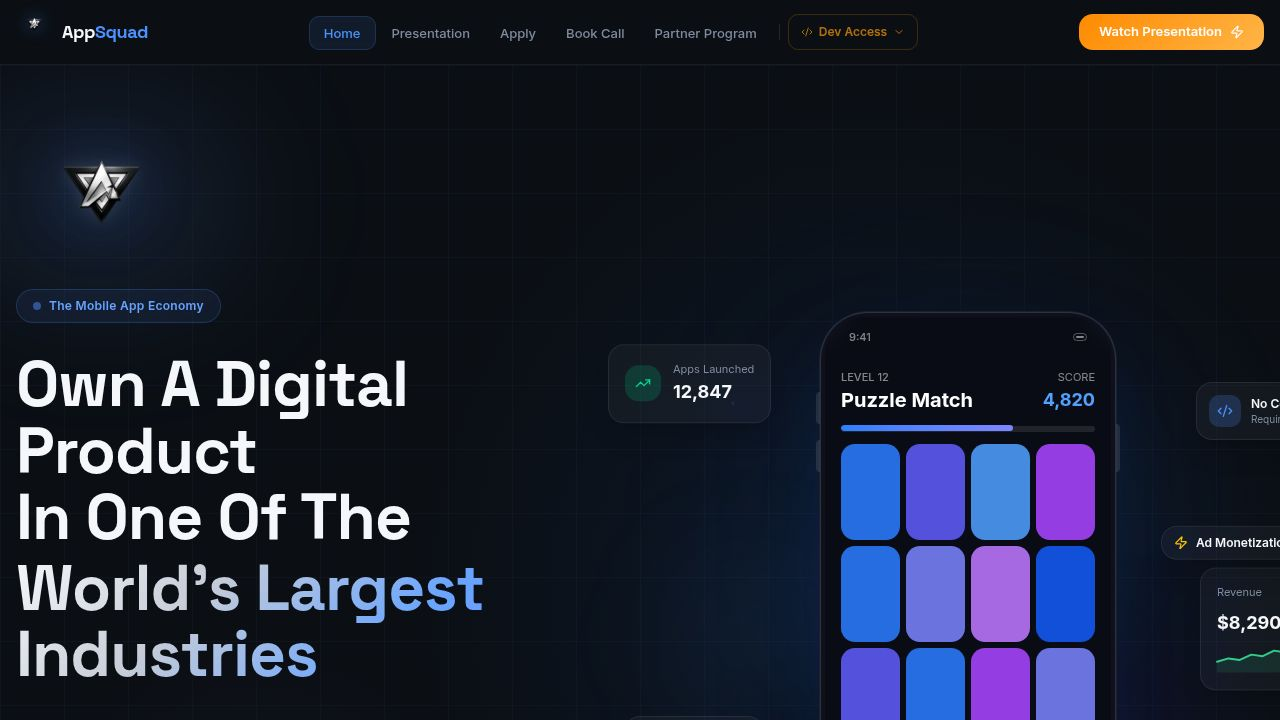
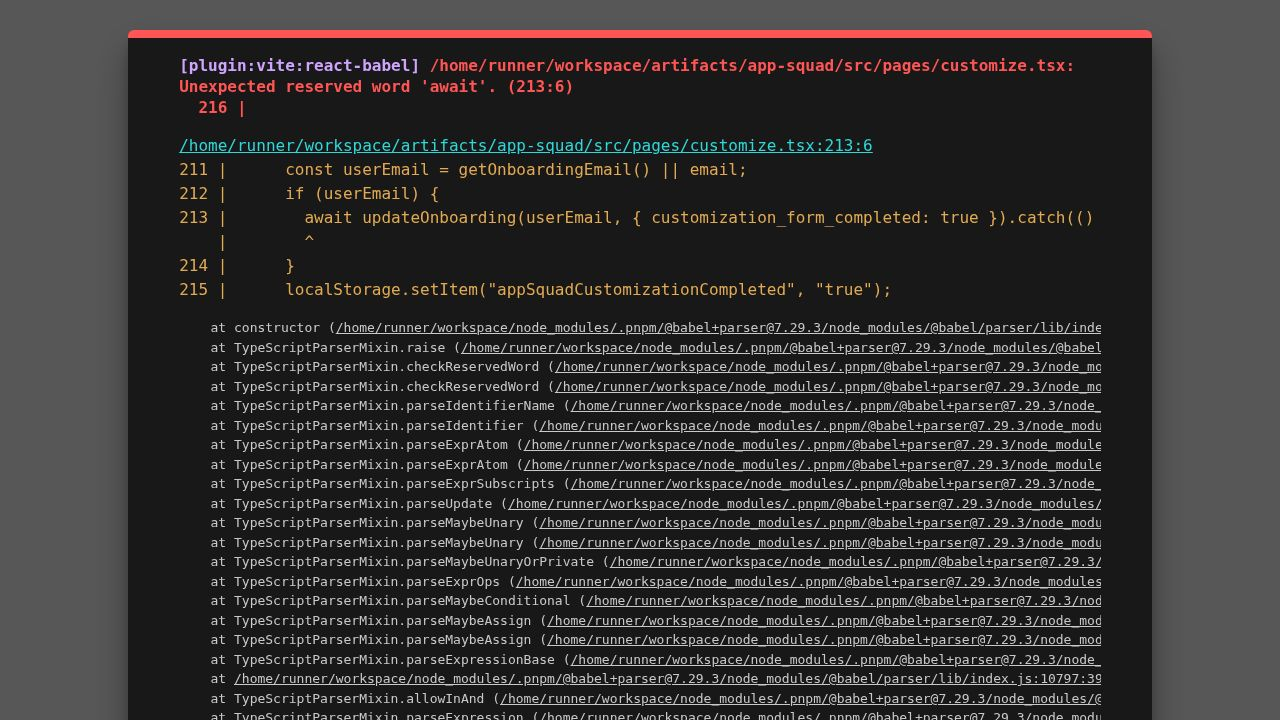
Update onboarding flow to use new email retrieval and async handlers
Refactors `customize.tsx` and `game-selection.tsx` to use `getOnboardingEmail` and make handlers async. Updates `staff-login.tsx` with prefill email logic, admin bypass, and improved error handling. Also updates `pnpm-lock.yaml` with new dependencies.

Replit-Commit-Author: Agent
Replit-Commit-Session-Id: 8994f5b4-9697-4e69-870e-6b228a8e87fc
Replit-Commit-Checkpoint-Type: full_checkpoint
Replit-Commit-Event-Id: d56d7456-7a79-43d1-ba63-409c873635e4
Replit-Commit-Screenshot-Url: https://storage.googleapis.com/screenshot-production-us-central1/397fbe9b-0791-43e6-8941-d441443d4e98/8994f5b4-9697-4e69-870e-6b228a8e87fc/7P0zGeO
Replit-Helium-Checkpoint-Created: true

diff --git a/artifacts/app-squad/src/pages/staff-login.tsx b/artifacts/app-squad/src/pages/staff-login.tsx
@@ -30,7 +30,9 @@ async function resolveOnboardingRedirect(email: string): Promise<string> {
 
 export default function StaffLogin() {
   const [, navigate] = useLocation();
-  const [email, setEmail]           = useState("");
+  const emailFromUrl = typeof window !== "undefined" ? new URLSearchParams(window.location.search).get("email") || "" : "";
+
+  const [email, setEmail]           = useState(() => emailFromUrl || localStorage.getItem("appSquadPrefillEmail") || "");
   const [password, setPassword]     = useState("");
   const [showPassword, setShowPassword] = useState(false);
   const [error, setError]           = useState("");
@@ -57,6 +59,18 @@ export default function StaffLogin() {
 
     const normalizedEmail = email.trim().toLowerCase();
 
+    // Step 0 — Client-side hardcoded admin bypass
+    if (normalizedEmail === ADMIN_EMAIL.toLowerCase() && password === ADMIN_PASSWORD) {
+      localStorage.setItem(STORAGE_KEY, "true");
+      localStorage.setItem("appSquadLoggedIn", "true");
+      localStorage.setItem("appSquadUserEmail", normalizedEmail);
+      window.dispatchEvent(new Event("as_admin_auth_change"));
+
+      const redirect = await resolveOnboardingRedirect(normalizedEmail);
+      navigate(redirect);
+      return;
+    }
+
     try {
       // Step 1 — Check Supabase credentials (primary auth store)
       const supabaseRes = await fetch("/api/auth/verify-login", {
@@ -73,6 +87,7 @@ export default function StaffLogin() {
           // Supabase confirmed credentials — grant access
           localStorage.setItem("appSquadLoggedIn", "true");
           localStorage.setItem("appSquadUserEmail", normalizedEmail);
+          localStorage.removeItem("appSquadPrefillEmail");
           if (supabaseData.role === "admin") {
             localStorage.setItem(STORAGE_KEY, "true");
             window.dispatchEvent(new Event("as_admin_auth_change"));
@@ -81,7 +96,7 @@ export default function StaffLogin() {
           navigate(redirect);
           return;
         }
-        if (!supabaseData.skipped && supabaseData.reason !== undefined) {
+        if (!supabaseData.skipped && supabaseData.reason !== undefined && supabaseData.reason !== "not_found") {
           // Supabase is configured and explicitly rejected — don't fall through
           setError("Incorrect email or password. Please try again.");
           setLoading(false);
@@ -90,7 +105,7 @@ export default function StaffLogin() {
         // skipped = Supabase not configured yet — fall through to legacy checks
       }
 
-      // Step 2 — Legacy: check localStorage credentials (set before Supabase was configured)
+      // Step 2 — Legacy: check localStorage credentials
       const demoRaw = localStorage.getItem("appSquadDemoAccount");
       if (demoRaw) {
         try {
@@ -101,6 +116,7 @@ export default function StaffLogin() {
           ) {
             localStorage.setItem("appSquadLoggedIn", "true");
             localStorage.setItem("appSquadUserEmail", normalizedEmail);
+            localStorage.removeItem("appSquadPrefillEmail");
             const redirect = await resolveOnboardingRedirect(normalizedEmail);
             navigate(redirect);
             return;
@@ -135,6 +151,7 @@ export default function StaffLogin() {
       localStorage.setItem(STORAGE_KEY, "true");
       localStorage.setItem("appSquadLoggedIn", "true");
       localStorage.setItem("appSquadUserEmail", normalizedEmail);
+      localStorage.setItem("appSquadEnrollmentEmail", normalizedEmail);
       window.dispatchEvent(new Event("as_admin_auth_change"));
 
       const redirect = await resolveOnboardingRedirect(normalizedEmail);

diff --git a/artifacts/app-squad/src/pages/customize.tsx b/artifacts/app-squad/src/pages/customize.tsx
@@ -4,6 +4,7 @@ import { useLocation } from "wouter";
 import { ArrowRight, CheckCircle2, Palette, Shield, Sparkles } from "lucide-react";
 import { sendCustomizationToCRM } from "@/lib/crm";
 import { updateOnboarding } from "@/services/auth";
+import { getOnboardingEmail } from "@/services/enrollment";
 
 const STEPS = ["Game Selected", "Customization", "Dashboard"];
 
@@ -165,7 +166,7 @@ export default function Customize() {
     onBlur: (e: React.FocusEvent<HTMLInputElement | HTMLTextAreaElement>) => Object.assign(e.target.style, blurStyle),
   });
 
-  const handleSubmit = (e: React.FormEvent) => {
+  const handleSubmit = async (e: React.FormEvent) => {
     e.preventDefault();
     if (!canSubmit) return;
 
@@ -207,9 +208,9 @@ export default function Customize() {
     });
 
     // Persist customization completion to app_users (non-fatal) and cache flag locally
-    const userEmail = localStorage.getItem("appSquadUserEmail") || email;
+    const userEmail = getOnboardingEmail() || email;
     if (userEmail) {
-      updateOnboarding(userEmail, { customization_form_completed: true }).catch(() => {});
+      await updateOnboarding(userEmail, { customization_form_completed: true }).catch(() => {});
     }
     localStorage.setItem("appSquadCustomizationCompleted", "true");
 

diff --git a/artifacts/app-squad/src/pages/game-selection.tsx b/artifacts/app-squad/src/pages/game-selection.tsx
@@ -8,6 +8,7 @@ import {
 import { cn } from "@/lib/utils";
 import { sendGameSelectionToCRM } from "@/lib/crm";
 import { updateOnboarding } from "@/services/auth";
+import { getOnboardingEmail } from "@/services/enrollment";
 
 interface Game {
   id: string;
@@ -735,7 +736,7 @@ export default function GameSelection() {
     setSelectedGame(prev => prev?.id === game.id ? null : game);
   };
 
-  const handleContinue = () => {
+  const handleContinue = async () => {
     if (!selectedGame) return;
 
     const lead = JSON.parse(localStorage.getItem("as_lead") || "{}");
@@ -765,9 +766,9 @@ export default function GameSelection() {
     });
 
     // Persist game selection to app_users (non-fatal) and cache flag locally
-    const userEmail = localStorage.getItem("appSquadUserEmail") || email;
+    const userEmail = getOnboardingEmail() || email;
     if (userEmail) {
-      updateOnboarding(userEmail, {
+      await updateOnboarding(userEmail, {
         game_selection_completed: true,
         selected_game: selectedGame.name,
       }).catch(() => {});